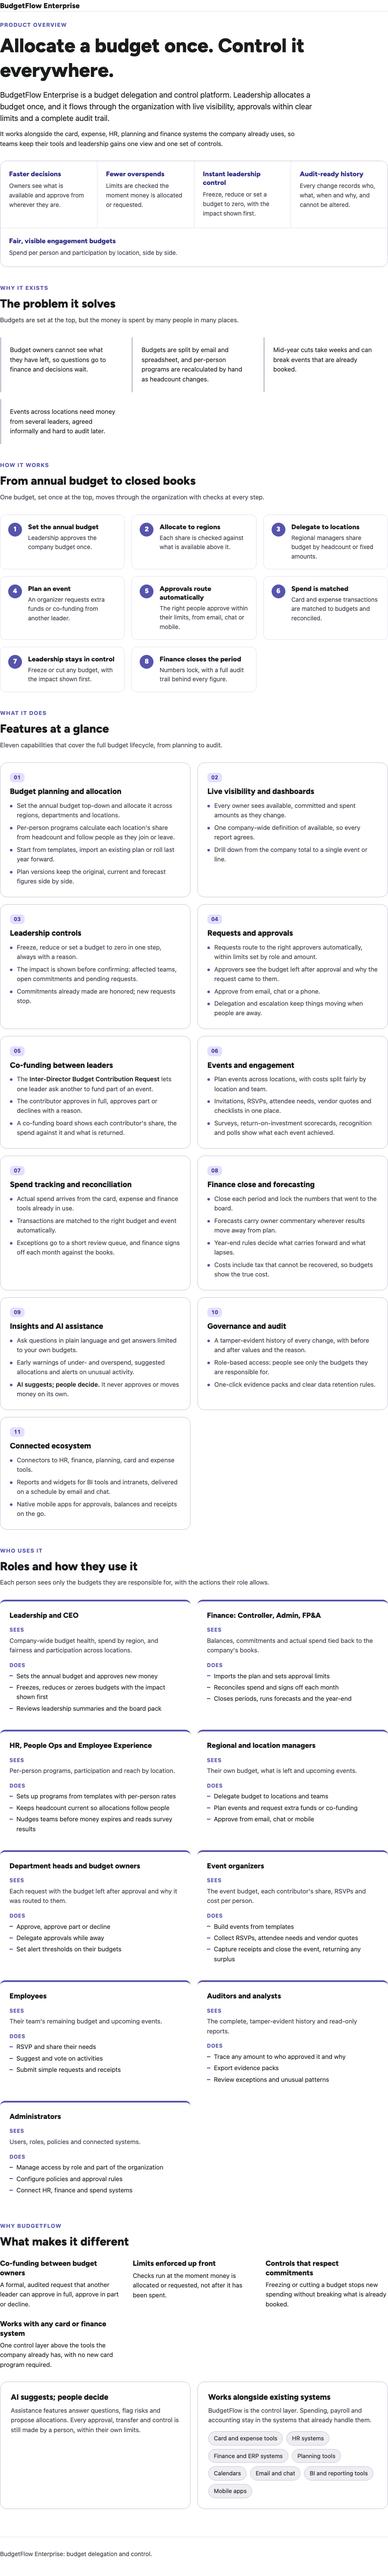
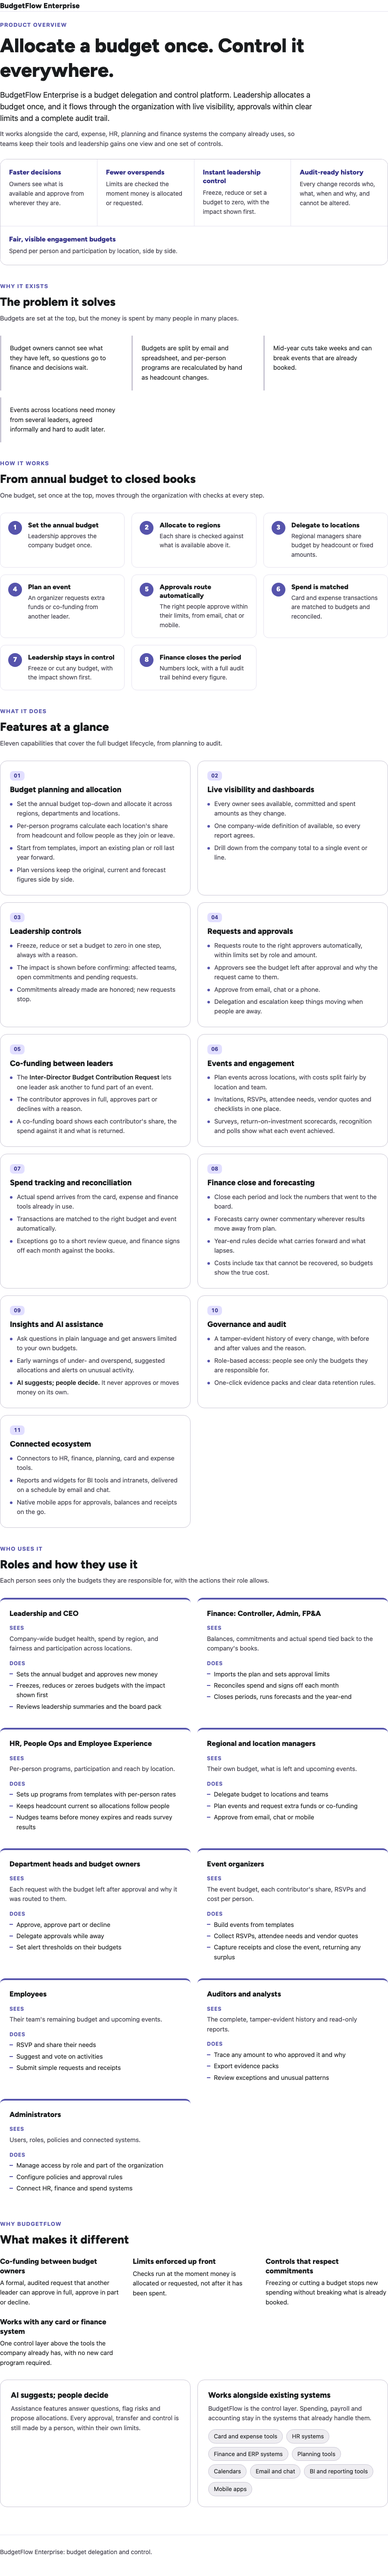
docs(evidence): record local checks of the overview hero button
Refreshed laptop, tablet, phone and print renders, plus the button checks (style, first viewport, click target, hidden in print).

diff --git a/evidence/leadership-overview/README.md b/evidence/leadership-overview/README.md
@@ -17,6 +17,17 @@
 | Self-contained                                                                                                  | Inline CSS only; no scripts, external fonts or images        | pass   |
 | Public-content scan (internal tool names, figures, people, office cities, "prototype", emojis, technical terms) | No matches; only generic system categories                   | pass   |
 
+## Revision: "See the screen designs" is the primary action in the hero
+
+The button moved from the footer to the hero, under the positioning text, as a filled primary button (`#5654ac`, white text). The hero body is now white, with a slim purple brand bar above it, so the button stands out; the footer keeps only its closing line. The `local-*.png` screenshots above show the revised page.
+
+| Check (local, 2026-11-05)                       | Expected                                                         | Result |
+| ----------------------------------------------- | ---------------------------------------------------------------- | ------ |
+| Button style at laptop, tablet and phone widths | Background `rgb(86, 84, 172)`, white text, in the first viewport | pass   |
+| Phone (iPhone 13)                               | Full-width button, no horizontal overflow                        | pass   |
+| Click the button                                | Opens the preview index (`../index.html`)                        | pass   |
+| Print view                                      | Button hidden, no links left in the footer                       | pass   |
+
 ## Live check (after deploy)
 
 - Merged in [#28](https://github.com/narasimhahyland/budgetflow/pull/28) (merge commit `ba9a1f0`), then published with `design/preview/deploy.sh` from that commit.
